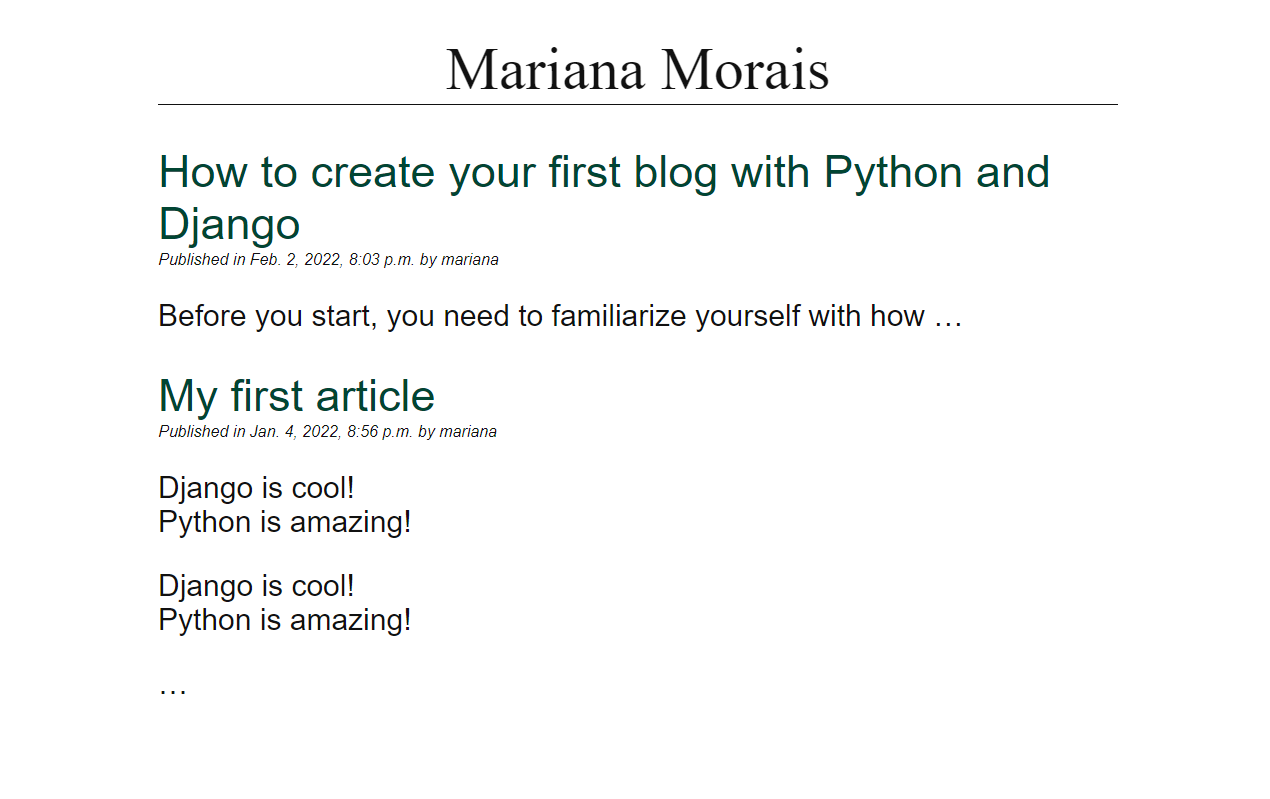
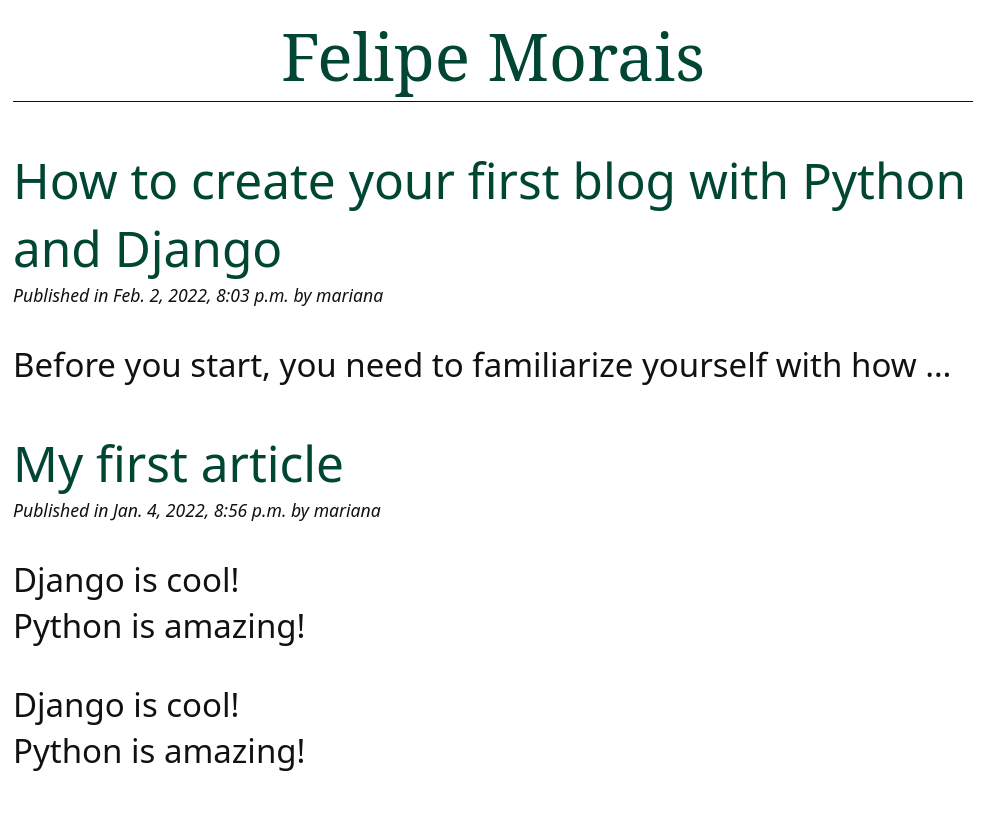
now it's mine

Changed region(s): [[0.0, 0.1802, 0.9591, 0.811], [0.1238, 0.03, 0.8972, 0.1502], [0.0, 0.811, 0.3094, 0.9312]]

diff --git a/djangoblog/blog/templates/blog/base.html b/djangoblog/blog/templates/blog/base.html
@@ -3,12 +3,12 @@
 <!DOCTYPE html>
 <html lang="en">
 <head>
-  <title>{% block title %} {% endblock%}</title>
-  <link href="{% static 'css/blog.css' %}" rel="stylesheet">
+  <title>{% block title %} Felipe Morais 🐍 {% endblock%}</title>
+  <link href="{% static 'blog/css/blog.css' %}" rel="stylesheet">
 </head>
 <body>
   <header>
-    <h1>Mariana Morais</h1>
+    <h1><a href="{% url 'blog:list' %}">Felipe Morais</a></h1>
   </header>
 
   <main>

diff --git a/djangoblog/blog/templates/blog/post_list.html b/djangoblog/blog/templates/blog/post_list.html
@@ -1,7 +1,5 @@
 {% extends "blog/base.html" %}
 
-{% block title %}My blog 🐍{% endblock %}
-
 {% block content %}
   {% for post in post_list %}
     <article>

diff --git a/djangoblog/djangoblog/urls.py b/djangoblog/djangoblog/urls.py
@@ -18,5 +18,5 @@ from django.urls import include, path
 
 urlpatterns = [
     path('admin/', admin.site.urls),
-    path('blog/', include("blog.urls", namespace="blog")),
+    path('', include("blog.urls", namespace="blog")),
 ]
